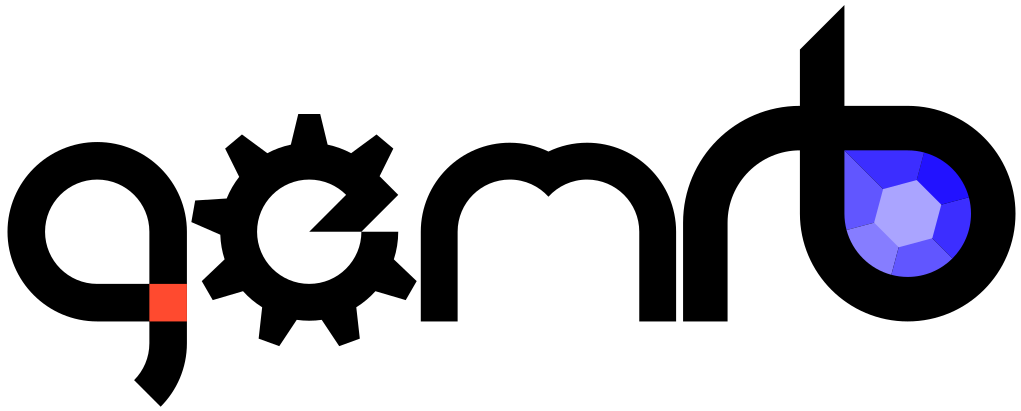
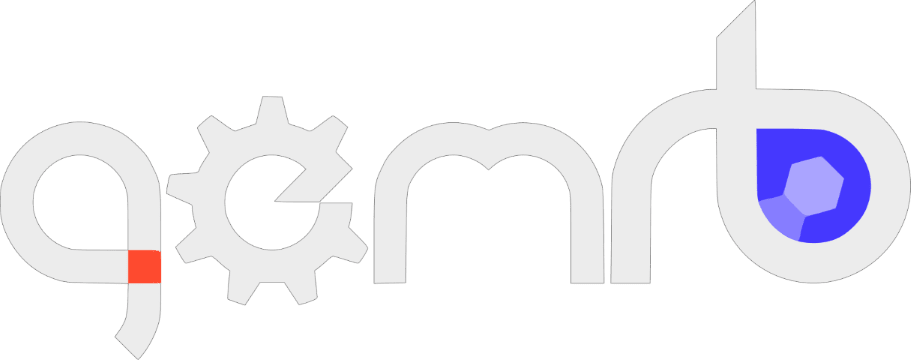
GITBOOK-659: No subject

Changed region(s): [[0.0, 0.0, 1.0, 1.0]]

diff --git a/lang/en/systems-and-emulators/supported-game-systems/game-engines/gemrb.md b/lang/en/systems-and-emulators/supported-game-systems/game-engines/gemrb.md
@@ -2,7 +2,7 @@
 
 <div align="left">
 
-<figure><img src="../../../.gitbook/assets/gemrb.png" alt="" width="375"><figcaption></figcaption></figure>
+<figure><picture><source srcset="../../../.gitbook/assets/gemrb.png" media="(prefers-color-scheme: dark)"><img src="../../../.gitbook/assets/gemrb (1).png" alt="GemRB" width="375"></picture><figcaption></figcaption></figure>
 
 </div>
 
